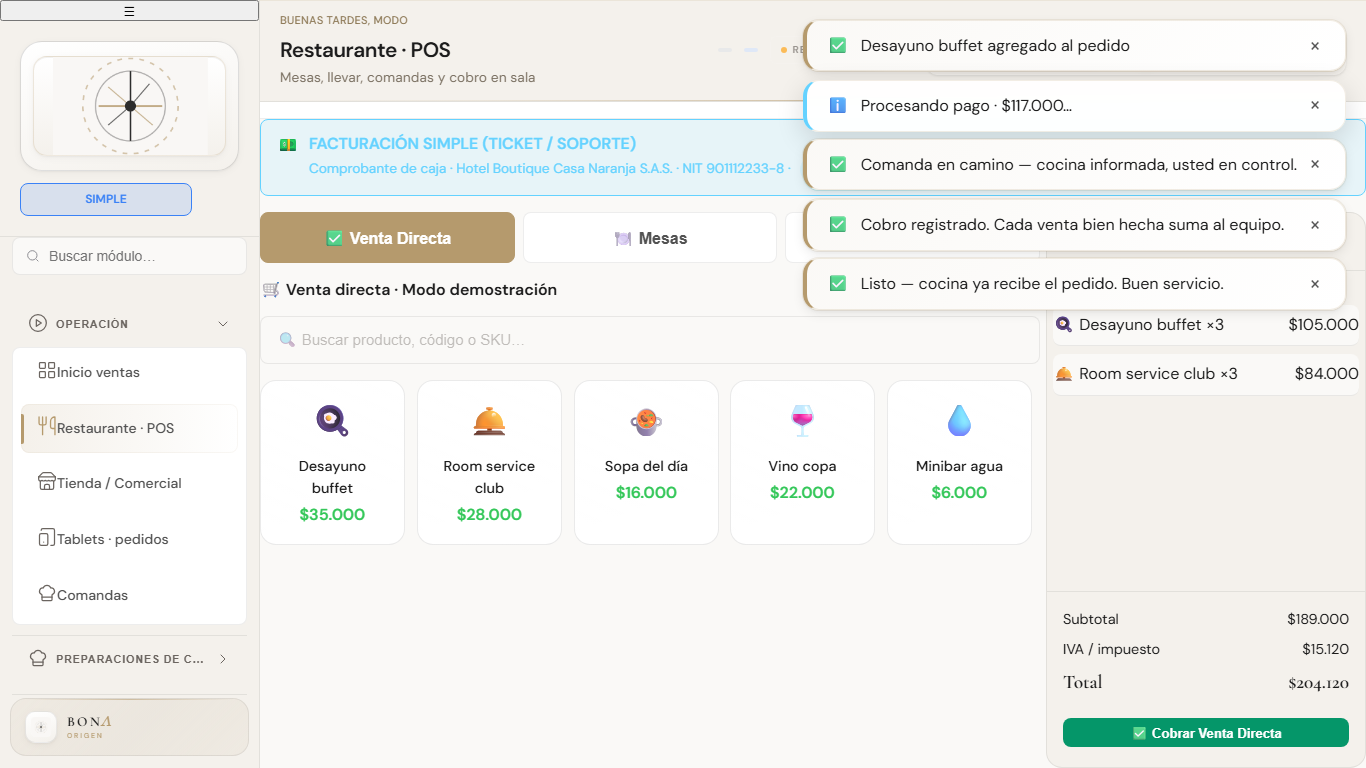
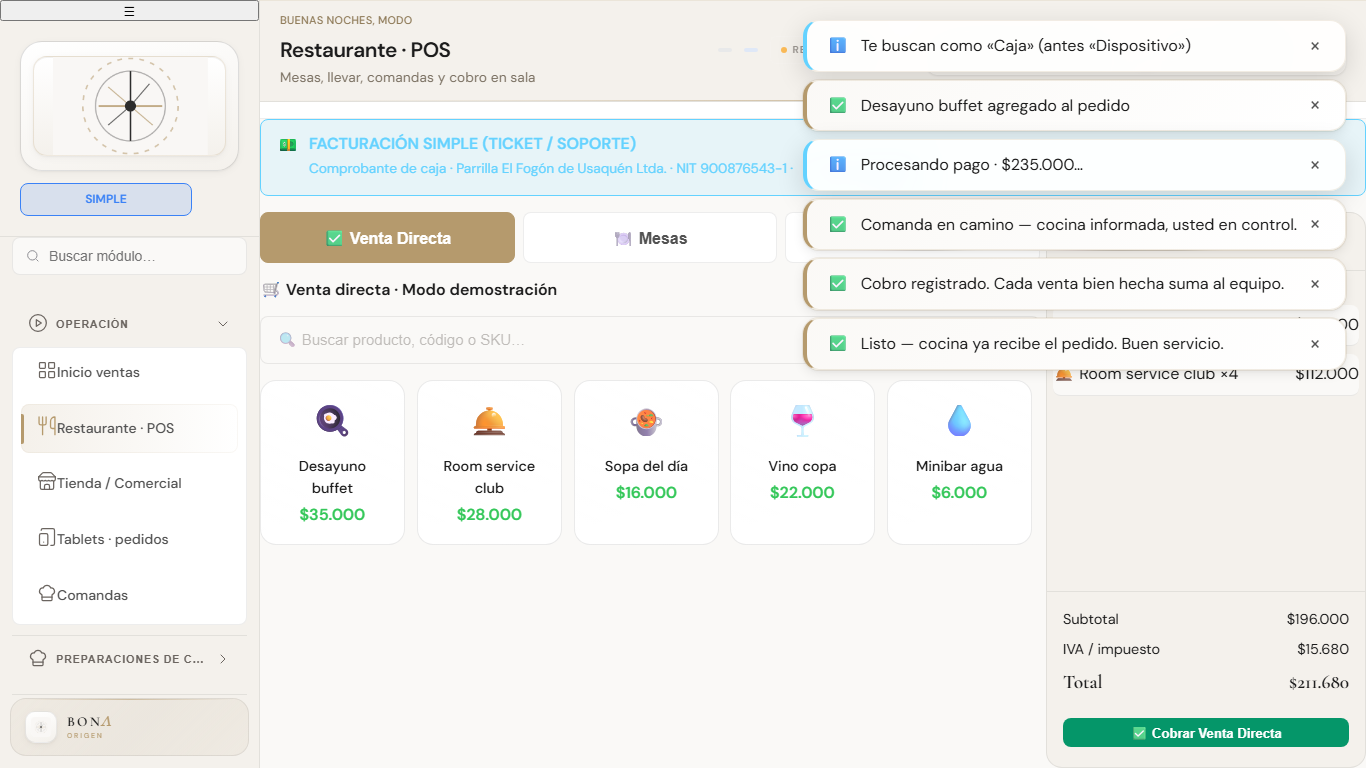
fix(P0-17): limpiar warning SinkExt unused en crozzo_lan_ws.rs

diff --git a/src-tauri/src/crozzo_lan_ws.rs b/src-tauri/src/crozzo_lan_ws.rs
@@ -36,23 +36,18 @@ pub fn broadcast_text(json_text: &str) -> usize {
     }
     let mut sent = 0;
     for c in &inner.conns {
-        if let Ok(mut w) = c.try_lock() {
-            use futures_util::SinkExt;
-            // Para broadcast síncrono, usamos try_send si está disponible
-            // o creamos un runtime temporal para el envío
-            let rt = tokio::runtime::Handle::try_current();
-            if let Ok(handle) = rt {
-                // Evitar panic: no block_on dentro de contexto async; enviar en task.
-                let msg = Message::Text(json_text.to_string());
-                let conn = Arc::clone(c);
-                handle.spawn(async move {
-                    if let Ok(mut w) = conn.try_lock() {
-                        use futures_util::SinkExt;
-                        let _ = w.send(msg).await;
-                    }
-                });
-                sent += 1;
-            }
+        let rt = tokio::runtime::Handle::try_current();
+        if let Ok(handle) = rt {
+            // Evitar panic: no block_on dentro de contexto async; enviar en task.
+            let msg = Message::Text(json_text.to_string());
+            let conn = Arc::clone(c);
+            handle.spawn(async move {
+                if let Ok(mut w) = conn.try_lock() {
+                    use futures_util::SinkExt;
+                    let _ = w.send(msg).await;
+                }
+            });
+            sent += 1;
         }
     }
     sent
